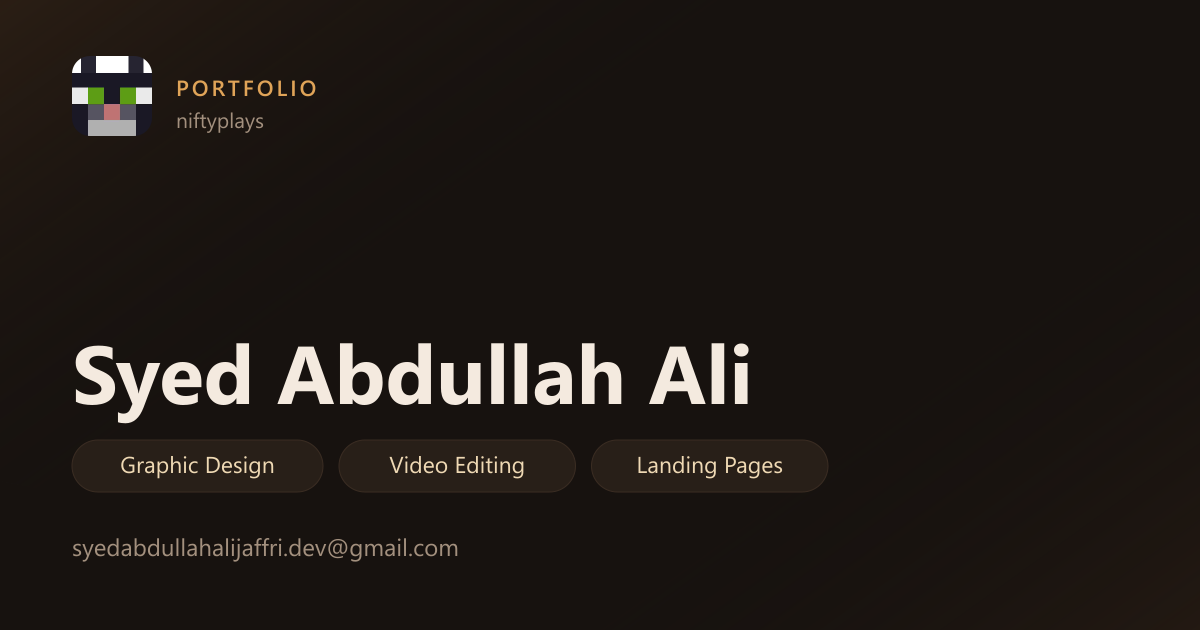
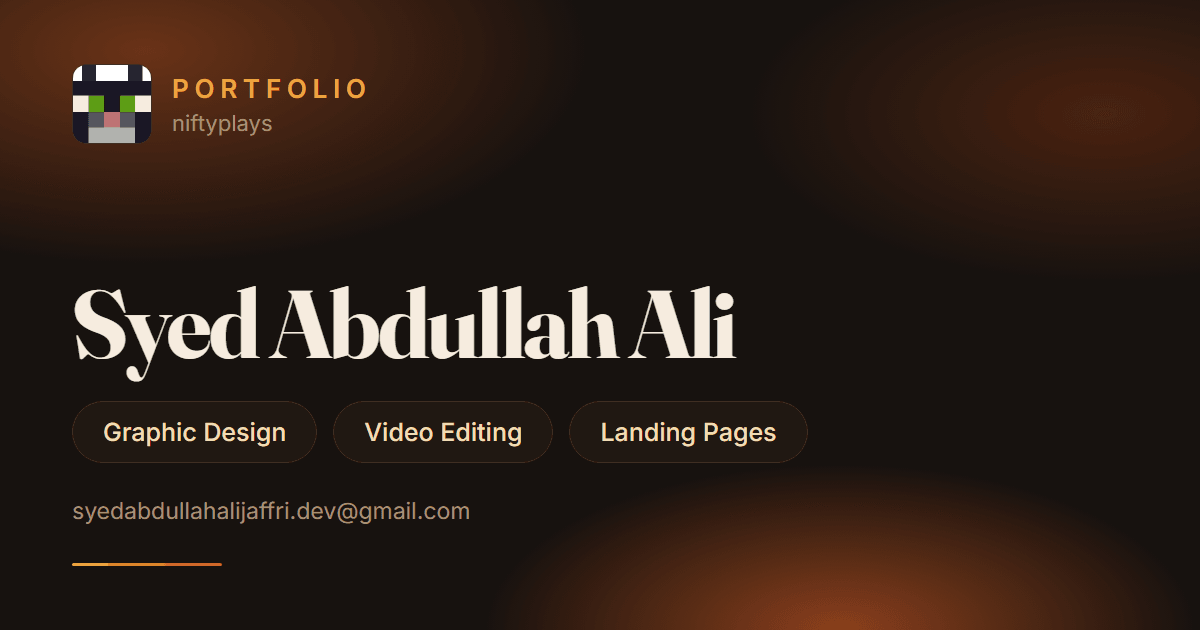
Tidy the claims, the share card and the stray asset
- Skills: the deliverables list sat unlabelled next to a live count of the
  work on this page, which let it read as things already made. It is now
  headed "What I take on", so the count says what is shown and the list
  says what is offered. The lists themselves are untouched — trimming them
  needs Syed to say which of those he has actually done.
- og.png: rebuilt on the current palette and in Fraunces, so the card you
  get when the link is pasted matches the site it opens.
- Dropped a stray screenshot that was shipping 180 KB out of /public.
- seed()'s doc comment now names what actually uses it, PixelAvatar.

Claude-Session: https://claude.ai/code/session_01APisAPhMV2Gx3R9tpkx4kh

diff --git a/components/Skills.tsx b/components/Skills.tsx
@@ -144,7 +144,10 @@ export default function Skills() {
                   {p.blurb}
                 </p>
 
-                <ul className="relative mt-6 space-y-2.5 border-t border-line pt-5">
+                <p className="pixel-label relative mt-6 border-t border-line pt-5 text-[9px] text-muted">
+                  What I take on
+                </p>
+                <ul className="relative mt-3.5 space-y-2.5">
                   {p.deliverables.map((d) => (
                     <li key={d} className="flex items-center gap-2.5 text-sm text-muted">
                       <span

diff --git a/lib/media.ts b/lib/media.ts
@@ -31,7 +31,7 @@ export function parseVideoUrl(url?: string) {
   return null;
 }
 
-/** Stable pseudo-random 0-1 from a string, so placeholders never reshuffle. */
+/** Stable pseudo-random 0-1 from a string, so generated avatars never reshuffle. */
 export function seed(str: string) {
   let h = 2166136261;
   for (let i = 0; i < str.length; i++) {
